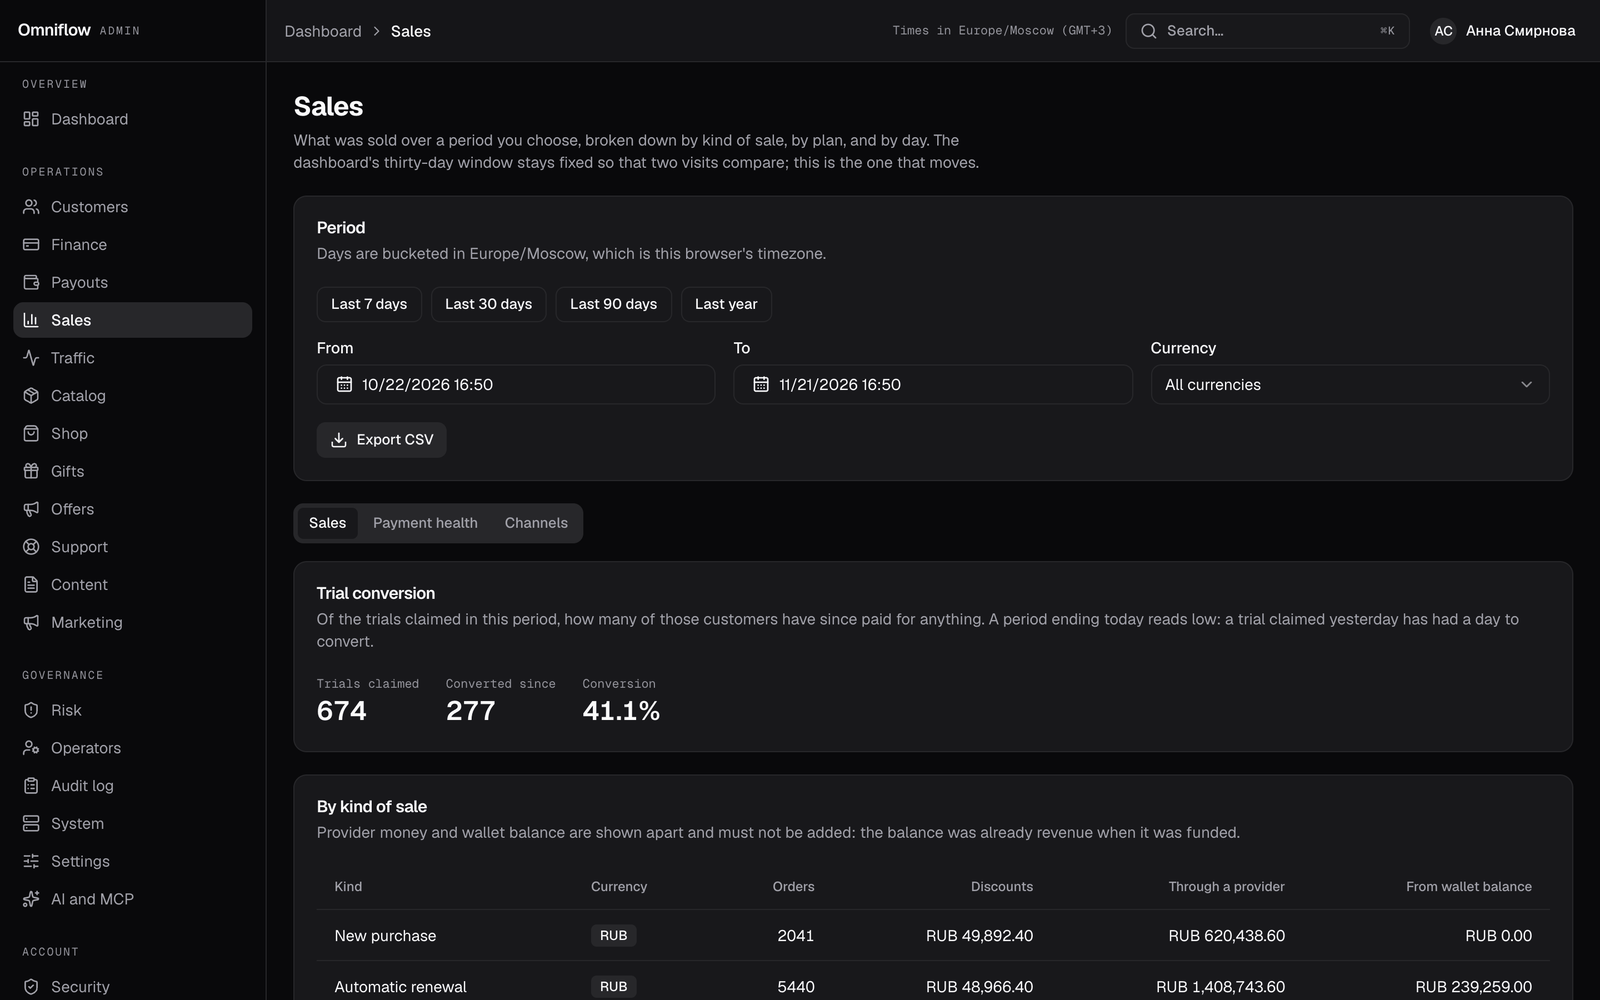
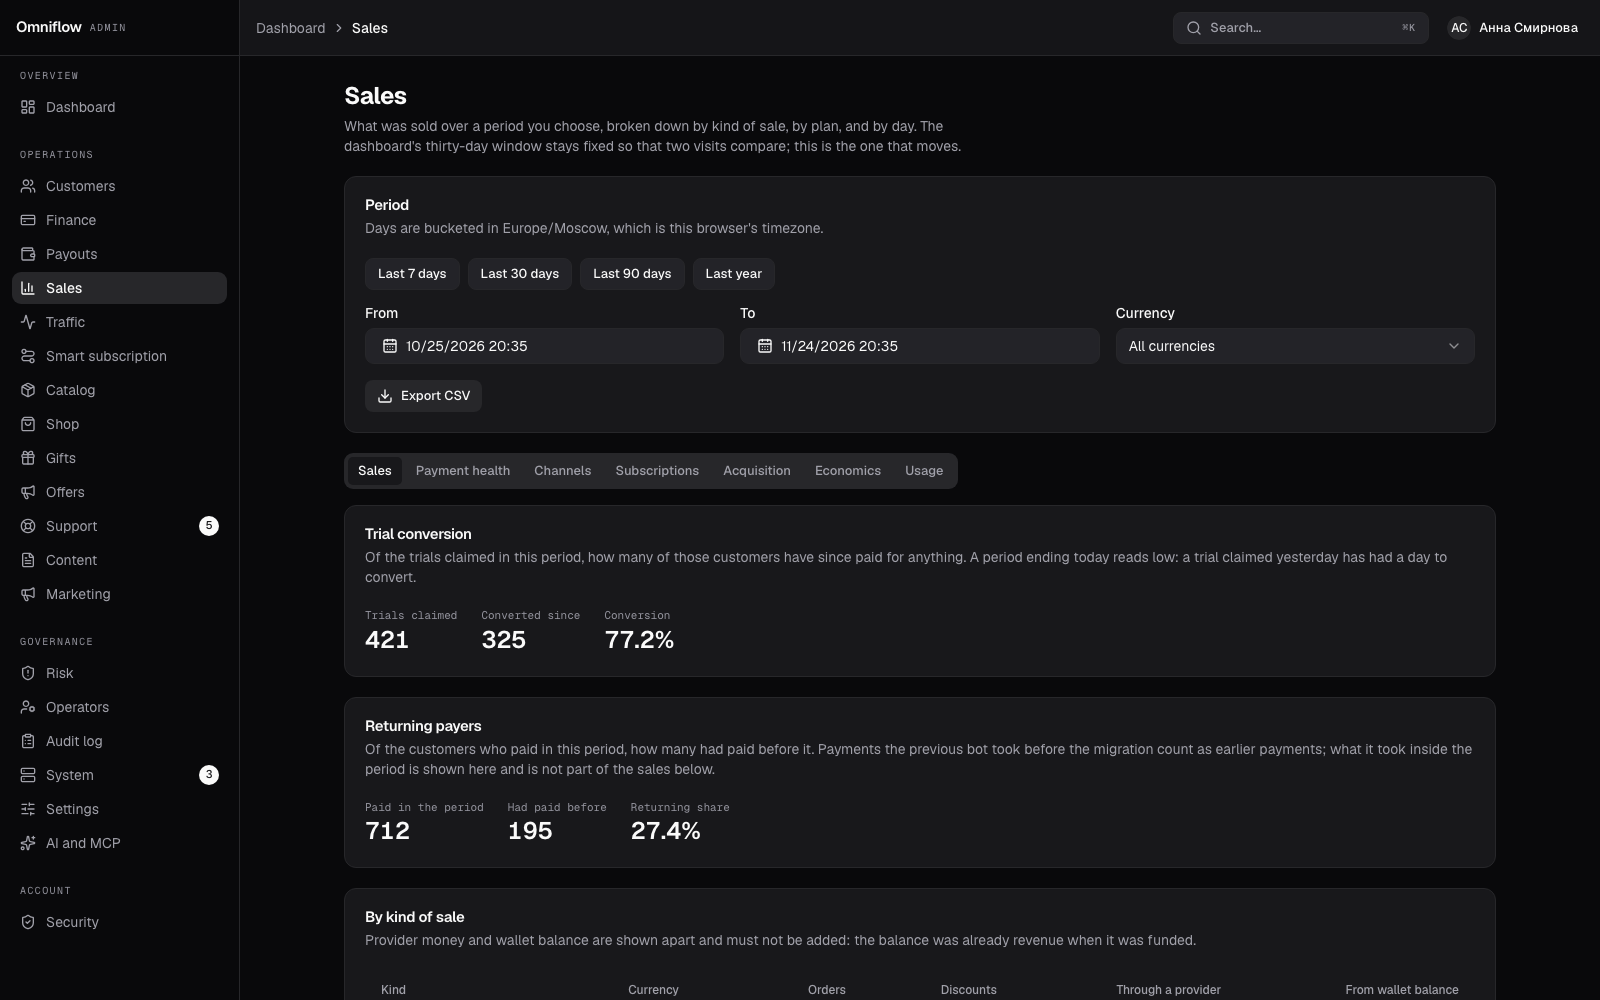
docs(readme): the smart subscription, Family plan, Stars, and support photos, with new screenshots
Screenshots are retaken from a demo installation with generated customers, names, and avatars: the operator dashboard, the smart subscription's rules and analytics, the support desk with a customer's screenshot, and the customer panel on a phone with servers and routing, plans, and Stars.

diff --git a/README.md b/README.md
@@ -37,39 +37,42 @@
 </p>
 
 <p align="center">
-  <img src="docs/screenshots/admin-dashboard.png" width="900" alt="Operator dashboard: 14,480 active customers and 1,777 new in the last 30 days, with the change against the previous 30 days and a daily trend line">
+  <img src="docs/screenshots/admin-dashboard.png" width="900" alt="Operator dashboard: 1,850 customers and 802 new in the last 30 days, with the change against the previous 30 days and a daily trend line">
 </p>
 
 > [!NOTE]
-> The screenshots come from a demo installation filled with generated data: customers, orders, and payments are fake.
+> The screenshots come from a demo installation filled with generated data: customers, their names and avatars, orders, and payments are made up.
 
 ## ✨ Highlights
 
 - 🤖 **A complete Telegram bot.** Plans, checkout, renewals, upgrades, devices, connection guides, support tickets, referrals, gifts, news, and a Telegram Stars and Premium shop, all in one message that updates as the customer moves through it.
 - 🖥 **Two web panels in one app.** The customer panel at `/account` mirrors the bot, so a cart started in the chat is the cart the browser shows. Operators work in `/admin`, which needs no SQL and no shell for anything.
+- 🧭 **A smart subscription customers tune themselves.** Servers grouped by country with a Fastest group that picks its own server, a whitelist bypass, and ping estimated through the VPN. Customers hide countries, pin their own server for an address that stays the same, and switch the routing cards: Gosuslugi and banks without the VPN, AI assistants through the servers where they work, torrents never through the VPN, ads blocked. Operators edit those cards with site logos, see what customers chose, and the bot tells customers when a country goes down and comes back.
 - 💳 **29 payment providers.** YooKassa with 54-FZ receipts, Telegram Stars, CryptoBot, and 25 regional collectors carried over from Bedolaga. Each method can be its own button, with its own limits and visibility rules. Saved cards and mandates renew subscriptions automatically, and only with the customer's explicit consent.
-- ⭐ **A Stars shop on your own wallet.** Customers buy Telegram Stars and Premium, and Omniflow delivers them through Fragment from your own TON wallet. The wallet's secrets live only in environment variables.
+- ⭐ **A Stars shop on your own wallet.** Customers buy Telegram Stars by the star at your price, or Premium, and Omniflow delivers them through Fragment from your own TON wallet. The wallet's secrets live only in environment variables.
 - 🧮 **Money handled like money.** Every order and payment mutation is idempotent, provider webhooks are replay-safe, and wallet balances come from an append-only double-entry ledger. Refunds and chargebacks reported by a provider take back what they paid for.
 - 📈 **Growth tools.** Campaigns with `/start` links and UTM attribution, percentage referral commissions, a second referral level and referral contests, loyalty groups, personal offers, win-back waves with a discount, a fortune wheel, polls, and seven daily games, partner applications with personal rates, and broadcasts by Telegram and e-mail.
-- 🎫 **A real support desk.** Queues, assignment, SLA timers, internal notes, canned replies, customer topics and urgency, and an operator Telegram group with auto-created topics.
+- 🎫 **A real support desk.** Queues, assignment, SLA timers, internal notes, canned replies, customer topics and urgency, and an operator Telegram group with auto-created topics. Screenshots customers send the bot show up in the conversation, kept in any S3-compatible store.
 - 🔗 **Remnawave-native.** Omniflow uses Remnawave's public API only. It receives the panel's signed webhooks, encrypts Happ and INCY links, and reads devices and traffic live. Remnawave stays the owner of users, nodes, and traffic.
 - 🔐 **Operator security.** Argon2id passwords, passkeys, TOTP, optional OIDC, custom roles, and an append-only audit trail. Every adverse action needs a reason, and secrets are write-only by construction.
 - 🛡 **Private by default.** Omniflow keeps no subscription links, HWIDs, or customer IP addresses. Advertising measurement is off until you turn it on, and the anonymous installation telemetry can be switched off with one variable.
 
 ## 📸 Screenshots
 
-| Sales | Customer card |
+| Smart subscription: service rules | Smart subscription: what customers chose |
 | :---: | :---: |
+| ![Service rules as the customer sees them: Gosuslugi, banks, marketplaces, and Yandex without the VPN, AI assistants through the VPN, MAX blocked, each with a logo and a mode](docs/screenshots/admin-smart-rules.png) | ![Analytics: subscriptions customers tuned, changed rules, pinned servers, hidden countries, and popular customer domains](docs/screenshots/admin-smart-analytics.png) |
+| **Sales** | **Customer card** |
 | ![Sales report: 674 trials claimed, 41.1% converted, revenue by kind of sale](docs/screenshots/admin-sales.png) | ![Customer card with the subscription, live devices, and every operator action](docs/screenshots/admin-customer.png) |
 | **Finance** | **Support desk** |
-| ![Finance: fulfilled orders with provider and amounts, filters, and CSV export](docs/screenshots/admin-finance.png) | ![Support desk: queues with unassigned counts and the ticket list](docs/screenshots/admin-support.png) |
+| ![Finance: fulfilled orders with customers, provider, and amounts, filters, and CSV export](docs/screenshots/admin-finance.png) | ![Support desk: queues, the ticket list, and a conversation with the screenshot the customer sent the bot](docs/screenshots/admin-support.png) |
 | **Catalog** | **Traffic** |
-| ![Catalog: plans with versions, order lines, visibility, and best-deal flags](docs/screenshots/admin-catalog.png) | ![Traffic: heaviest users and Remnawave nodes, read live from the panel](docs/screenshots/admin-traffic.png) |
+| ![Catalog: Trial, Standard, and Family plans with versions, order lines, visibility, and best-deal flags](docs/screenshots/admin-catalog.png) | ![Traffic: heaviest users and Remnawave nodes, read live from the panel](docs/screenshots/admin-traffic.png) |
 
-**The customer panel on a phone**: subscriptions, the plan store, devices, invitations, and the wallet.
+**The customer panel on a phone**: the subscription, servers by country with ping and the services each one opens, the routing cards, plans with the Family plan, and the Stars shop.
 
 <p align="center">
-  <img src="docs/screenshots/customer-mobile.png" alt="Customer web panel on a phone: subscriptions, store, devices, referrals with a QR code, and the wallet">
+  <img src="docs/screenshots/customer-mobile.png" alt="Customer web panel on a phone: the subscription home, servers and routing with ping and service badges, routing cards with logos, the Standard and Family plans, and buying Telegram Stars">
 </p>
 
 ## 🚀 Self-host it
@@ -175,6 +178,7 @@ flowchart LR
     Admin --> API
     API --> PostgreSQL[("PostgreSQL 19")]
     API --> Valkey[("Valkey 9")]
+    API --> Objects[("S3-compatible store")]
     API --> Remnawave["Remnawave API"]
     Remnawave -. "signed webhooks" .-> API
     Remnawave --> Xray["Xray nodes"]
@@ -187,7 +191,7 @@ flowchart LR
 | Layer | Technology |
 | --- | --- |
 | Backend | Go 1.27, Chi, pgx, sqlc, River jobs, transactional outbox, OpenAPI, OpenTelemetry |
-| Data | PostgreSQL 19 with Atlas migrations, Valkey 9 |
+| Data | PostgreSQL 19 with Atlas migrations, Valkey 9, any S3-compatible object store for files |
 | Web | Next.js 16, React 19, TypeScript 7, Tailwind CSS 4, shadcn/ui, SWR |
 | Tooling | Bun workspaces, Biome, Orval, Mintlify, Playwright, Testcontainers |
 | Delivery | GitHub Actions, Release Please, Renovate, Trivy, Gitleaks, CodeQL, Cosign-signed images |
